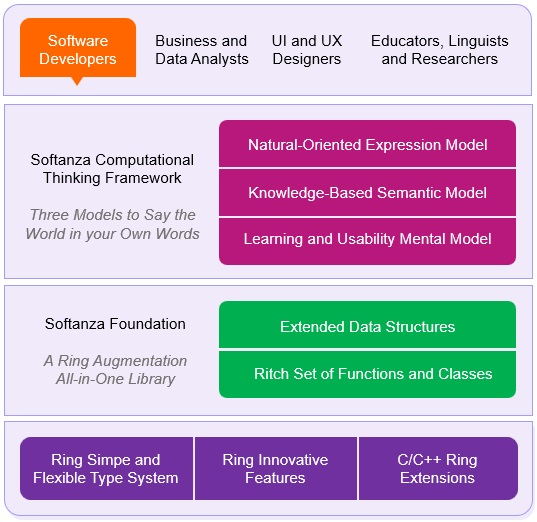
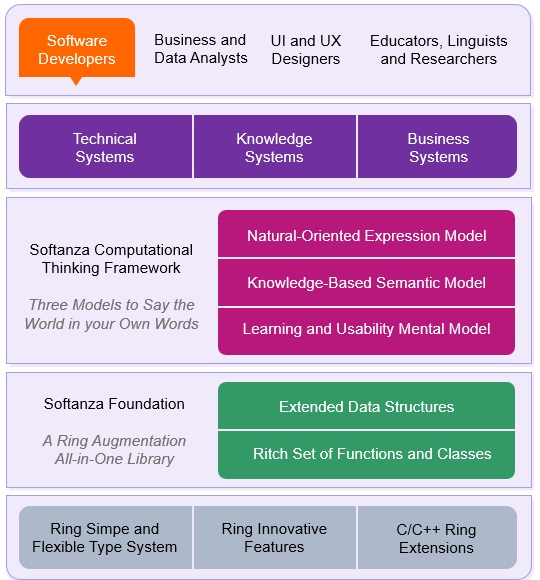
Updating the stz-for-the-rest-of-us.md

diff --git a/libraries/stzlib/doc/narrations/stz-for-the-rest-of-us.md b/libraries/stzlib/doc/narrations/stz-for-the-rest-of-us.md
@@ -4,6 +4,10 @@
 
 I am Mansour, the designer of Softanza, a framework born out of my mission to simplify programming for everyone—not just seasoned coders, but anyone willing to write code. Let me tell you what Softanza truly is and why I believe it matters.
 
+## Introduction: The Big Picture
+
+![Softanza Computational Thinking Architecture](../images/stz-computational-thinking-architecture.jpg)
+
 At its simplest form, Softanza is a library for the Ring programming language.
 
 ## 1. An Augmentation Library of the Ring Programming Language
@@ -21,8 +25,6 @@ While written in Ring, Softanza isn’t limited to it. Its high-level abstractio
 ## 2. A Programming Framework for Computational Thinking
 
 Softanza is designed to be a non-restrictive framework that cultivates computational thinking. It doesn't force a specific software architecture or complex machinery of tools. You simply load it and write pure Ring code.
-
-<img src="../images/stz-computational-thinking-architecture.jpg" alt="Softanza Computational Thinking Architecture" class="center" />
 
 As a framework for computational thinking, it addresses three key pillars of any thinking process: the Semantic Model, the Learnning Model, and the Expression Model, all backed by a ritch algorithmic foundation that has a direct function to nerely any need.
 
